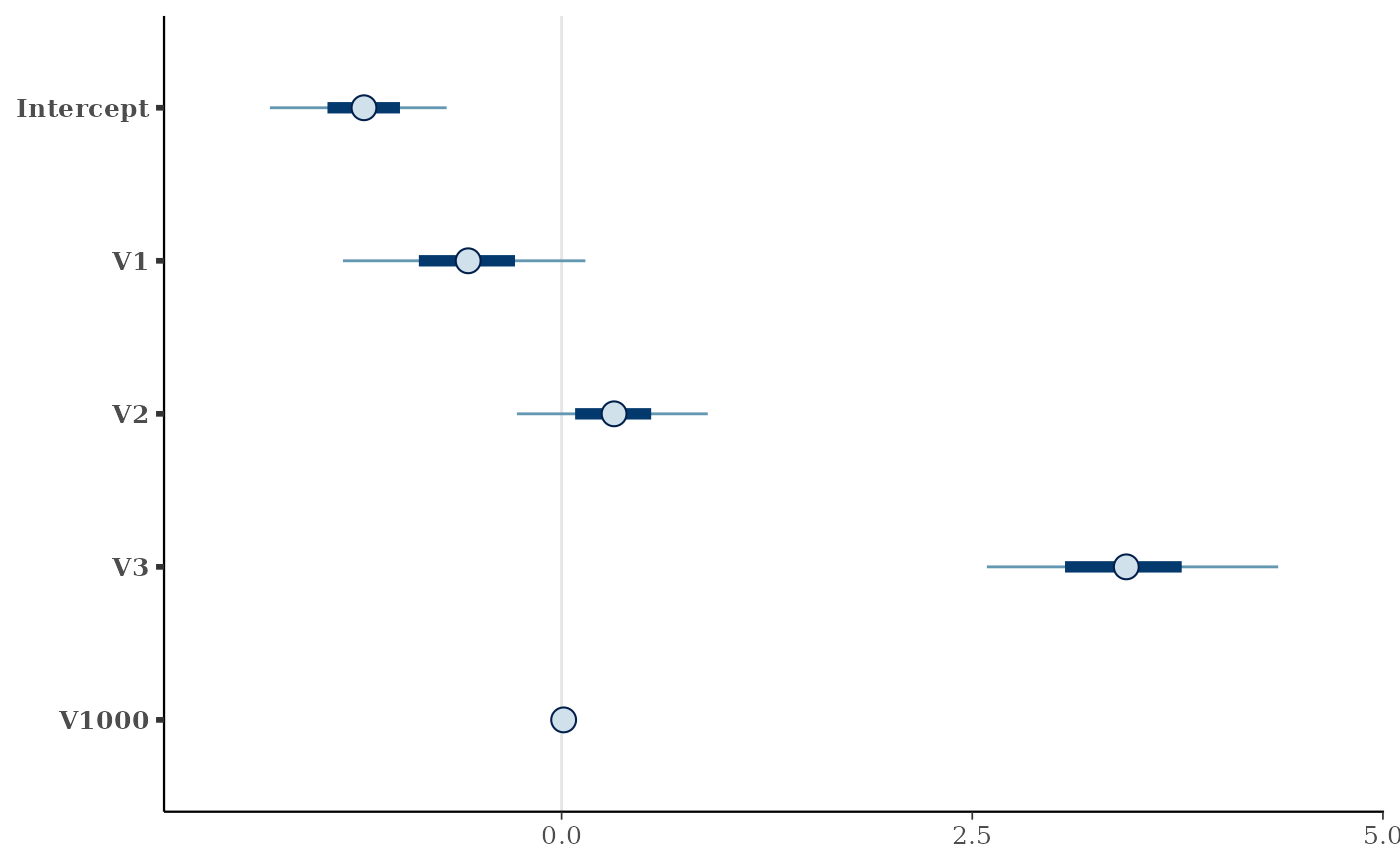
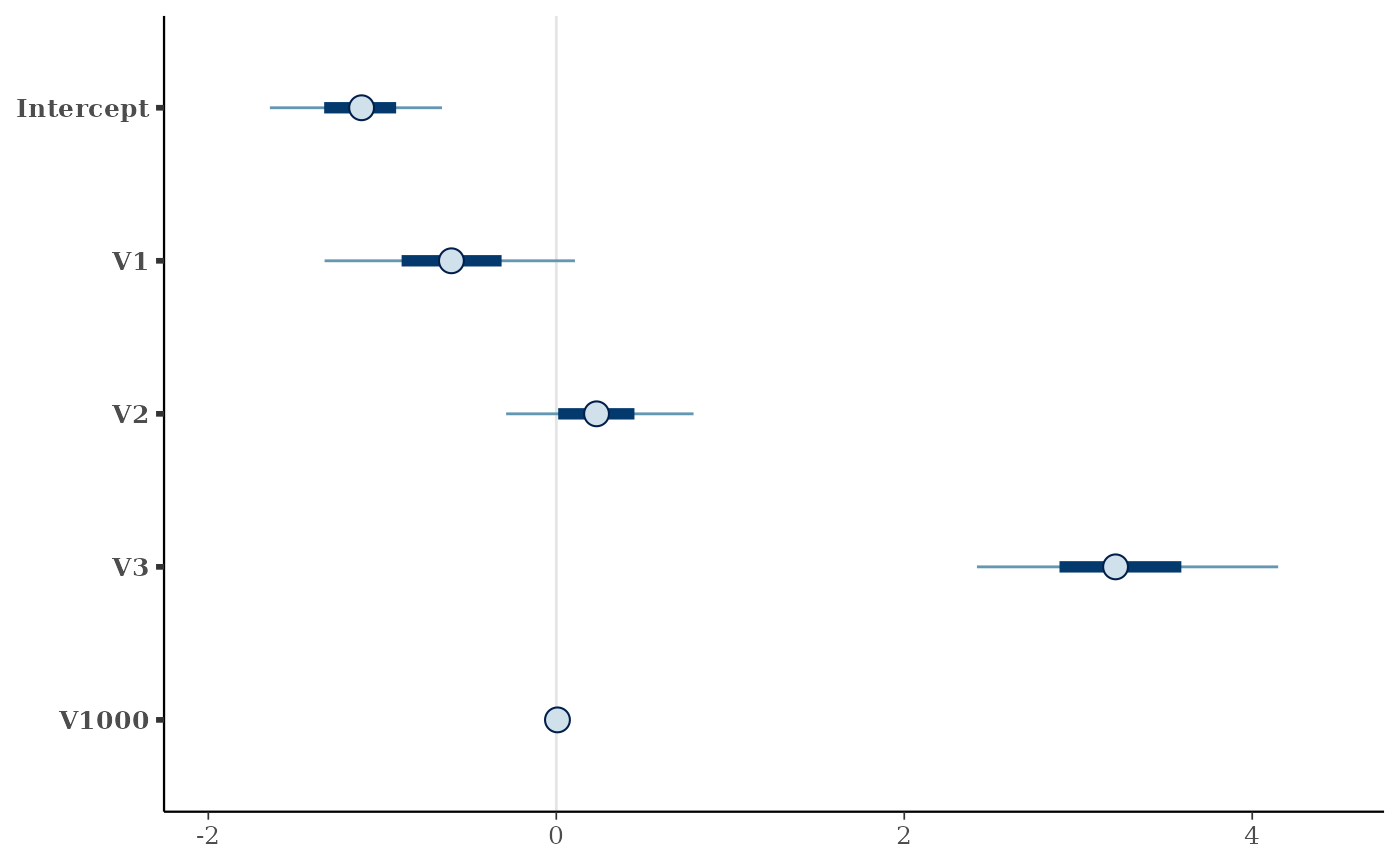
Deploying to gh-pages from @ longhaiSK/HTLR@0adb6f05e444b35634a944800bbde4813423032f 🚀

diff --git a/articles/simu.html b/articles/simu.html
@@ -171,7 +171,7 @@ y</p></li>
 <span>  <span class="va">fit.t</span> <span class="op">&lt;-</span> <span class="fu"><a href="../reference/htlr.html">htlr</a></span><span class="op">(</span><span class="va">dat</span><span class="op">$</span><span class="va">x.tr</span>, <span class="va">dat</span><span class="op">$</span><span class="va">y.tr</span><span class="op">)</span></span>
 <span><span class="op">)</span></span>
 <span><span class="co">#&gt;    user  system elapsed </span></span>
-<span><span class="co">#&gt; 225.932   0.096  57.261</span></span>
+<span><span class="co">#&gt; 239.338   0.143  60.465</span></span>
 <span><span class="fu"><a href="https://rdrr.io/r/base/print.html" class="external-link">print</a></span><span class="op">(</span><span class="va">fit.t</span><span class="op">)</span></span>
 <span><span class="co">#&gt; Fitted HTLR model </span></span>
 <span><span class="co">#&gt; </span></span>
@@ -202,7 +202,7 @@ y</p></li>
 <span>                 iter <span class="op">=</span> <span class="fl">4000</span>, init <span class="op">=</span> <span class="st">"bcbc"</span>, keep.warmup.hist <span class="op">=</span> <span class="cn">T</span><span class="op">)</span></span>
 <span><span class="op">)</span></span>
 <span><span class="co">#&gt;    user  system elapsed </span></span>
-<span><span class="co">#&gt; 346.003   0.707  87.967</span></span>
+<span><span class="co">#&gt; 370.079   0.854  94.326</span></span>
 <span><span class="fu"><a href="https://rdrr.io/r/base/print.html" class="external-link">print</a></span><span class="op">(</span><span class="va">fit.t2</span><span class="op">)</span></span>
 <span><span class="co">#&gt; Fitted HTLR model </span></span>
 <span><span class="co">#&gt; </span></span>
@@ -231,22 +231,22 @@ y</p></li>
 <p>Look at the point summaries of posterior of selected parameters:</p>
 <div class="sourceCode" id="cb7"><pre class="downlit sourceCode r">
 <code class="sourceCode R"><span><span class="fu"><a href="https://rdrr.io/r/base/summary.html" class="external-link">summary</a></span><span class="op">(</span><span class="va">fit.t2</span>, features <span class="op">=</span> <span class="fu"><a href="https://rdrr.io/r/base/c.html" class="external-link">c</a></span><span class="op">(</span><span class="fl">1</span><span class="op">:</span><span class="fl">10</span>, <span class="fl">100</span>, <span class="fl">200</span>, <span class="fl">1000</span>, <span class="fl">2000</span><span class="op">)</span>, method <span class="op">=</span> <span class="va">median</span><span class="op">)</span></span>
-<span><span class="co">#&gt;                 class 2      class 3</span></span>
-<span><span class="co">#&gt; Intercept -2.9251781111 -1.203151588</span></span>
-<span><span class="co">#&gt; V1         8.8100041623 -0.568866500</span></span>
-<span><span class="co">#&gt; V2        -4.8520446894  0.319423942</span></span>
-<span><span class="co">#&gt; V3        -0.9558961147  3.437562711</span></span>
-<span><span class="co">#&gt; V4        -0.0012091980  0.005205749</span></span>
-<span><span class="co">#&gt; V5         0.0103007780  0.011905636</span></span>
-<span><span class="co">#&gt; V6         0.0024018364  0.007393096</span></span>
-<span><span class="co">#&gt; V7         0.0065049591  0.003816966</span></span>
-<span><span class="co">#&gt; V8        -0.0075031782  0.013737998</span></span>
-<span><span class="co">#&gt; V9         0.0043950924  0.006474516</span></span>
-<span><span class="co">#&gt; V10       -0.0163279171 -0.014179079</span></span>
-<span><span class="co">#&gt; V100       0.0085758864  0.004893786</span></span>
-<span><span class="co">#&gt; V200       0.0075849465 -0.000181472</span></span>
-<span><span class="co">#&gt; V1000     -0.0003826968  0.012385894</span></span>
-<span><span class="co">#&gt; V2000     -0.0052586540 -0.016522573</span></span>
+<span><span class="co">#&gt;                 class 2       class 3</span></span>
+<span><span class="co">#&gt; Intercept -2.7354013973 -1.119076e+00</span></span>
+<span><span class="co">#&gt; V1         8.2082272603 -6.028105e-01</span></span>
+<span><span class="co">#&gt; V2        -4.5701096071  2.313064e-01</span></span>
+<span><span class="co">#&gt; V3        -0.9363523582  3.214379e+00</span></span>
+<span><span class="co">#&gt; V4         0.0009046690 -2.152431e-03</span></span>
+<span><span class="co">#&gt; V5        -0.0051665924 -5.631749e-05</span></span>
+<span><span class="co">#&gt; V6        -0.0072774286  1.654051e-03</span></span>
+<span><span class="co">#&gt; V7        -0.0013794333 -2.153372e-03</span></span>
+<span><span class="co">#&gt; V8        -0.0047661861 -7.569987e-03</span></span>
+<span><span class="co">#&gt; V9        -0.0060317708  2.927544e-04</span></span>
+<span><span class="co">#&gt; V10       -0.0005934682  1.050192e-02</span></span>
+<span><span class="co">#&gt; V100      -0.0039015133  1.115288e-02</span></span>
+<span><span class="co">#&gt; V200      -0.0066909487  6.128469e-04</span></span>
+<span><span class="co">#&gt; V1000      0.0051105291  6.717532e-03</span></span>
+<span><span class="co">#&gt; V2000     -0.0058668522 -7.001962e-03</span></span>
 <span><span class="co">#&gt; attr(,"stats")</span></span>
 <span><span class="co">#&gt; [1] "median"</span></span></code></pre></div>
 <p>Plot interval estimates from posterior draws using <a href="https://mc-stan.org/bayesplot/index.html" class="external-link">bayesplot</a>:</p>

diff --git a/index.html b/index.html
@@ -11,8 +11,8 @@
 <script src="deps/bootstrap-5.3.1/bootstrap.bundle.min.js"></script><link href="deps/font-awesome-6.5.2/css/all.min.css" rel="stylesheet">
 <link href="deps/font-awesome-6.5.2/css/v4-shims.min.css" rel="stylesheet">
 <script src="deps/headroom-0.11.0/headroom.min.js"></script><script src="deps/headroom-0.11.0/jQuery.headroom.min.js"></script><script src="deps/bootstrap-toc-1.0.1/bootstrap-toc.min.js"></script><script src="deps/clipboard.js-2.0.11/clipboard.min.js"></script><script src="deps/search-1.0.0/autocomplete.jquery.min.js"></script><script src="deps/search-1.0.0/fuse.min.js"></script><script src="deps/search-1.0.0/mark.min.js"></script><!-- pkgdown --><script src="pkgdown.js"></script><meta property="og:title" content="Bayesian Logistic Regression with Heavy-Tailed Priors">
-<meta name="description" content="Efficient Bayesian multinomial logistic regression based on heavy-tailed (hyper-LASSO, non-convex) priors. The posterior of coefficients and hyper-parameters is sampled with restricted Gibbs sampling for leveraging the high-dimensionality and Hamiltonian Monte Carlo for handling the high-correlation among coefficients. A detailed description of the method: Li and Yao (2018), Journal of Statistical Computation and Simulation, 88:14, 2827-2851, &lt;arXiv:1405.3319&gt;.">
-<meta property="og:description" content="Efficient Bayesian multinomial logistic regression based on heavy-tailed (hyper-LASSO, non-convex) priors. The posterior of coefficients and hyper-parameters is sampled with restricted Gibbs sampling for leveraging the high-dimensionality and Hamiltonian Monte Carlo for handling the high-correlation among coefficients. A detailed description of the method: Li and Yao (2018), Journal of Statistical Computation and Simulation, 88:14, 2827-2851, &lt;arXiv:1405.3319&gt;.">
+<meta name="description" content="Efficient Bayesian multinomial logistic regression based on heavy-tailed (hyper-LASSO, non-convex) priors. The posterior of coefficients and hyper-parameters is sampled with restricted Gibbs sampling for leveraging the high-dimensionality and Hamiltonian Monte Carlo for handling the high-correlation among coefficients. A detailed description of the method: Li and Yao (2018), Journal of Statistical Computation and Simulation, 88:14, 2827-2851, &lt;doi:10.48550/arXiv.1405.3319&gt;.">
+<meta property="og:description" content="Efficient Bayesian multinomial logistic regression based on heavy-tailed (hyper-LASSO, non-convex) priors. The posterior of coefficients and hyper-parameters is sampled with restricted Gibbs sampling for leveraging the high-dimensionality and Hamiltonian Monte Carlo for handling the high-correlation among coefficients. A detailed description of the method: Li and Yao (2018), Journal of Statistical Computation and Simulation, 88:14, 2827-2851, &lt;doi:10.48550/arXiv.1405.3319&gt;.">
 </head>
 <body>
     <a href="#main" class="visually-hidden-focusable">Skip to contents</a>

diff --git a/articles/simu.md b/articles/simu.md
@@ -117,7 +117,7 @@ system.time(
   fit.t <- htlr(dat$x.tr, dat$y.tr)
 )
 #>    user  system elapsed 
-#> 225.932   0.096  57.261
+#> 239.338   0.143  60.465
 print(fit.t)
 #> Fitted HTLR model 
 #> 
@@ -151,7 +151,7 @@ system.time(
                  iter = 4000, init = "bcbc", keep.warmup.hist = T)
 )
 #>    user  system elapsed 
-#> 346.003   0.707  87.967
+#> 370.079   0.854  94.326
 print(fit.t2)
 #> Fitted HTLR model 
 #> 
@@ -181,22 +181,22 @@ Look at the point summaries of posterior of selected parameters:
 
 ``` r
 summary(fit.t2, features = c(1:10, 100, 200, 1000, 2000), method = median)
-#>                 class 2      class 3
-#> Intercept -2.9251781111 -1.203151588
-#> V1         8.8100041623 -0.568866500
-#> V2        -4.8520446894  0.319423942
-#> V3        -0.9558961147  3.437562711
-#> V4        -0.0012091980  0.005205749
-#> V5         0.0103007780  0.011905636
-#> V6         0.0024018364  0.007393096
-#> V7         0.0065049591  0.003816966
-#> V8        -0.0075031782  0.013737998
-#> V9         0.0043950924  0.006474516
-#> V10       -0.0163279171 -0.014179079
-#> V100       0.0085758864  0.004893786
-#> V200       0.0075849465 -0.000181472
-#> V1000     -0.0003826968  0.012385894
-#> V2000     -0.0052586540 -0.016522573
+#>                 class 2       class 3
+#> Intercept -2.7354013973 -1.119076e+00
+#> V1         8.2082272603 -6.028105e-01
+#> V2        -4.5701096071  2.313064e-01
+#> V3        -0.9363523582  3.214379e+00
+#> V4         0.0009046690 -2.152431e-03
+#> V5        -0.0051665924 -5.631749e-05
+#> V6        -0.0072774286  1.654051e-03
+#> V7        -0.0013794333 -2.153372e-03
+#> V8        -0.0047661861 -7.569987e-03
+#> V9        -0.0060317708  2.927544e-04
+#> V10       -0.0005934682  1.050192e-02
+#> V100      -0.0039015133  1.115288e-02
+#> V200      -0.0066909487  6.128469e-04
+#> V1000      0.0051105291  6.717532e-03
+#> V2000     -0.0058668522 -7.001962e-03
 #> attr(,"stats")
 #> [1] "median"
 ```
